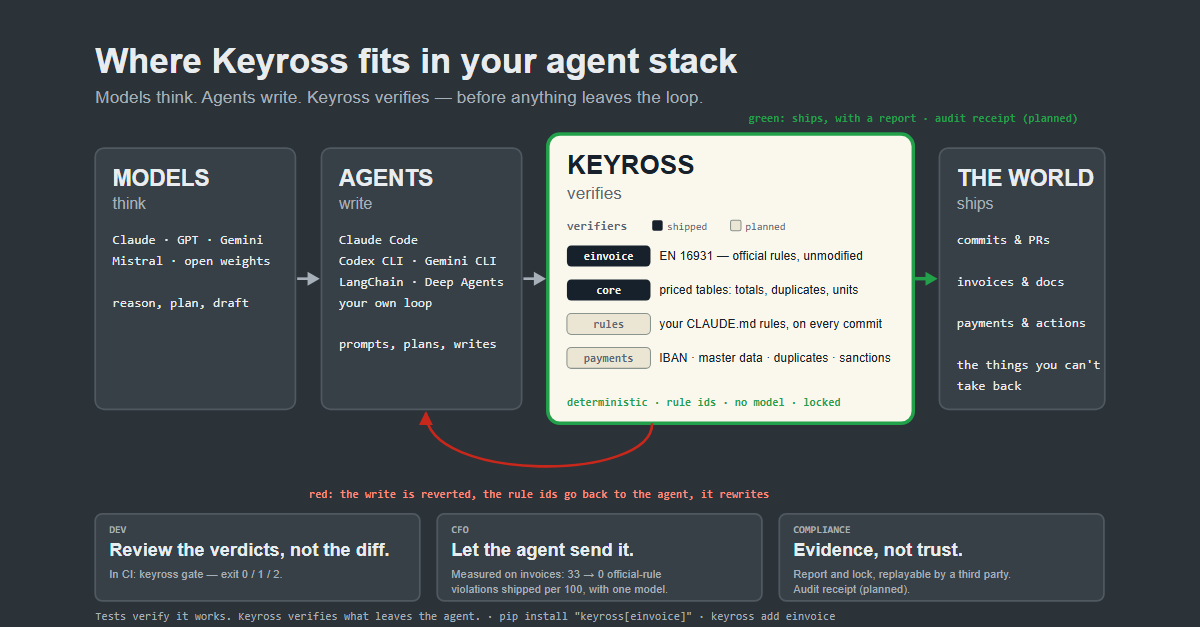
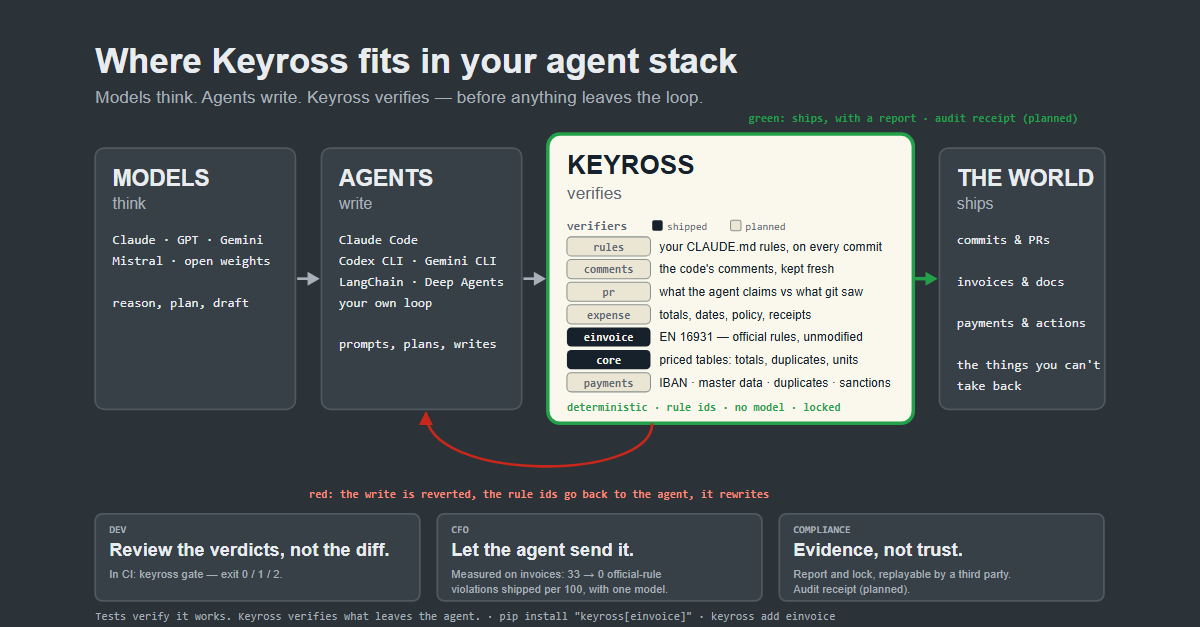
docs: comments, pr and expense back on the shelf — planned, in every list
The stack diagram shows them again, in the order of THE WORLD column
(commits and PRs, invoices and documents, payments), with core next to
einvoice: seven verifiers, two shipped. One truth, so the same seven are
everywhere the shelf is listed:

- README: three planned rows on the shelf; on the roadmap, under Later
- GAUGES.md: the same rows, with where their truth lives
- src/keyross/gauges/index.json: three planned entries, read by
  `keyross gauges`
- docs/ARCHITECTURE.md and its diagram: the planned packages
- CHANGELOG: the stack, GAUGES.md and index lines

The diagrams are re-rendered: the stack (SVG, PNG 1280 x 720 and
1200 x 627) and the architecture (PNG 2400 x 1770).

Changed region(s): [[0.4625, 0.3636, 0.74, 0.6667]]

diff --git a/CHANGELOG.md b/CHANGELOG.md
@@ -7,11 +7,11 @@
 - packaging: the PyPI page says what Keyross is — the summary is the repository's description, the keywords its topics, with project links (repository, changelog, issues, benchmark, citation); the README's images and links are made absolute at build time (`hatch-fancy-pypi-readme`), so they resolve on PyPI, which they did not in 0.1.0 and 0.1.1; CITATION.cff, which Zenodo reads, carries the same abstract
 - docs and CLI: what is not built says so — ARCHITECTURE.md, the architecture diagram (PNG re-rendered), the gauge and lock specs, the yoke README and the messages of `keyross yoke claude-code`, `keyross yoke mcp` and `keyross add` mark the native hooks (Claude Code, Codex CLI, Gemini CLI) planned, the MCP server later, the seal planned (the audit receipt), signed gauges planned; `keyross add` copies packages from this repository's index in 0.2; the telemetry is JSONL, locally; the gauge spec shows the shipped `einvoice` manifest, with `keyross update` and `keyross audit` planned
 - community: GitHub Discussions open; a "Wanted verifier" form (`.github/DISCUSSION_TEMPLATE/wanted-verifier.yml`): the document, what the agent got wrong, where the truth lives, the checks, who would build it
-- docs: the stack diagram, "Where Keyross fits in your agent stack" (`docs/assets/keyross_stack.svg`, PNG 1280 × 720 and 1200 × 627): models, agents, Keyross, the world; the verifiers of the README's shelf, `einvoice` and `core` shipped, `rules` and `payments` planned; the audit receipt marked planned; no figure that cannot be replayed
-- docs: GAUGES.md follows the public roadmap — on the shelf `core` and `einvoice`, planned `rules` and `payments` (the same list as the registry index); where the gauges plug in today (gate, GitHub Action, the yoke) and what is planned (pre-commit, native CLI hooks, an MCP server later); the contribution ideas corrected (`einvoice.delta.order_match` shipped; `einvoice.dates.ordered` instead of a `core` oracle on tables that carry no dates)
+- docs: the stack diagram, "Where Keyross fits in your agent stack" (`docs/assets/keyross_stack.svg`, PNG 1280 × 720 and 1200 × 627): models, agents, Keyross, the world; the verifiers of the README's shelf, `einvoice` and `core` shipped, `rules`, `comments`, `pr`, `expense` and `payments` planned; the audit receipt marked planned; no figure that cannot be replayed
+- docs: GAUGES.md follows the public roadmap — on the shelf `core` and `einvoice`, planned `rules`, `comments`, `pr`, `expense` and `payments` (the same list as the registry index); where the gauges plug in today (gate, GitHub Action, the yoke) and what is planned (pre-commit, native CLI hooks, an MCP server later); the contribution ideas corrected (`einvoice.delta.order_match` shipped; `einvoice.dates.ordered` instead of a `core` oracle on tables that carry no dates)
 - docs: `docs/audit-trail.md` — what was verified and how a third party replays it: the report, the lock, the gate; a real example in `docs/audit-trail/` (an invoice the benchmark's agent delivered without the yoke, green for the official rules, red with its order; its report, its lock, the replay commands)
 - integrations: `action/` becomes `integrations/github-action/`, a composite action that installs Keyross and runs `keyross gate` on a folder; CI runs it on this repository on every commit (green on clean invoices, red on the bad set). `demo-k8s/` becomes `examples/k8s/`, marked planned, with no date
-- index: the gauge index lists what exists and what is planned in this repository — `core` and `einvoice`, then `rules` and `payments` (planned, `packages/`); `dora.register`, `aiact.annex4` and the commercial `governance` entry leave it
+- index: the gauge index lists what exists and what is planned in this repository — `core` and `einvoice`, then `rules`, `comments`, `pr`, `expense` and `payments` (planned, `packages/`); `dora.register`, `aiact.annex4` and the commercial `governance` entry leave it
 - docs: the French translations leave the repository (README.fr.md, MANIFESTO.fr.md); French will live on keyross.org
 - repository: the description and the topics say what Keyross is — ready-to-use verifiers for an agent loop, official rules compiled into checks, pinned, deterministic, replayable
 

diff --git a/README.md b/README.md
@@ -43,6 +43,9 @@ Protocol, raw data, every delivered invoice, a blind human review (21/21 agree w
 | `einvoice` | **shipped** | EN 16931 invoices (UBL, CII — the XML of Factur-X): the official CEN rules, and the invoice against its order |
 | `core` | **shipped** | priced tables — quotes, bills of quantities: totals, duplicates, units, numbering, rows conserved |
 | `rules` | planned | your `AGENTS.md` / `CLAUDE.md` rules — scope, file size, tests, dependencies, public API — run on the diff, git as the only truth |
+| `comments` | planned | the comments and docstrings an agent writes or leaves behind, against the code: parameters, names and references that still exist |
+| `pr` | planned | a pull request's description against what git saw: the files it says it changed, the tests it says it added |
+| `expense` | planned | an expense report against its receipts and the expense policy: totals, dates, ceilings, duplicates |
 | `payments` | planned | a payment run against what it cannot rewrite: supplier master data, open invoices, IBAN checksum, sanctions lists |
 
 Want one that is not here? Open a discussion in [**Wanted verifier**](https://github.com/Keyross-oss/keyross/discussions/new?category=wanted-verifier): the document your agent got wrong, and where the truth lives. More in [GAUGES.md](GAUGES.md).
@@ -99,7 +102,7 @@ Every check writes a report; the lock pins what ran; `keyross gate` replays it a
 - **0.1.3** — `rules`: your `AGENTS.md` / `CLAUDE.md` rules enforced on every commit, and the `pre-commit` hook
 - **0.1.4** — `payments` in `packages/`; the Claude Code hook
 - **0.2** — `keyross add` copies packages from this repository's index; the XML schema step in `einvoice`; native hooks for Codex CLI and Gemini CLI; a benchmark of rules across coding agents
-- **Later** — `keyross new` (write a verifier, prove it on its bad cases), an MCP server
+- **Later** — `comments`, `pr` and `expense`; `keyross new` (write a verifier, prove it on its bad cases); an MCP server
 
 This repository verifies itself: on every commit, its CI runs the tests (one checks the table above against the benchmark's raw results), `keyross test`, `keyross lint`, `keyross lock --check` and the GitHub Action.
 

diff --git a/GAUGES.md b/GAUGES.md
@@ -17,6 +17,9 @@ Two homes. **Built-in gauges** ship inside the `keyross` package (`core`, `einvo
 | `core` | **shipped** | priced tables (quotes, bills of quantities, any priced sheet): schema, totals, duplicates, unit vocabulary, numbering, conservation (a sentinel); the `delete_rows` contract | ours |
 | `einvoice` | **shipped** (gauge 0.2.0) | EN 16931 electronic invoices (UBL, CII — the XML of Factur-X): the official CEN validation artefacts 1.3.16 run unmodified, one oracle per rule id (1,562), offline, pinned by SHA-256; delta oracles that check the invoice against its order. Measured in a [pre-registered benchmark](bench/einvoice/README.md) | official, never rewritten |
 | `rules` | planned | your `AGENTS.md` / `CLAUDE.md` rules — scope, file size, tests, dependencies, public API, secrets — run on the diff, with git as the only truth | yours, in ten lines |
+| `comments` | planned | the comments and docstrings in a diff, against the code they describe: documented parameters that match the signature, names and references that still exist | the code itself, in git |
+| `pr` | planned | a pull request's description against what git saw: the files it says it changed, the tests it says it added | git |
+| `expense` | planned | an expense report against its receipts and the expense policy: totals, dates, ceilings, duplicates | your policy, as data |
 | `payments` | planned | a payment run checked against what the run cannot rewrite: the supplier master data, the open invoices, the IBAN checksum, sanctions lists, the bank calendar | ISO 13616, ISO 20022, official lists |
 
 The same list is in the registry index (`src/keyross/gauges/index.json`), which `keyross gauges` reads. Nothing planned is announced as shipped; a planned gauge appears here when its first version is in this repository with its bad cases.

diff --git a/docs/ARCHITECTURE.md b/docs/ARCHITECTURE.md
@@ -2,7 +2,7 @@
 
 ![Full architecture: registry → installed gauges → three doors → outputs](architecture.png)
 
-**The registry** (`keyross gauges · add · outdated`) holds the gauges: `core`, `einvoice` (the official CEN EN 16931 artefacts, run unmodified, and delta oracles against the order), the planned packages (`rules`, `payments`), and yours. **Installed gauges** are pinned in `keyross.lock` — ids, versions, checksums of the official artifacts — and deployed where the documents are: your machine, your CI, your cluster. Never a SaaS that receives files.
+**The registry** (`keyross gauges · add · outdated`) holds the gauges: `core`, `einvoice` (the official CEN EN 16931 artefacts, run unmodified, and delta oracles against the order), the planned packages (`rules`, `comments`, `pr`, `expense`, `payments`), and yours. **Installed gauges** are pinned in `keyross.lock` — ids, versions, checksums of the official artifacts — and deployed where the documents are: your machine, your CI, your cluster. Never a SaaS that receives files.
 
 ## Three doors — two yokes and scrutineering
 
